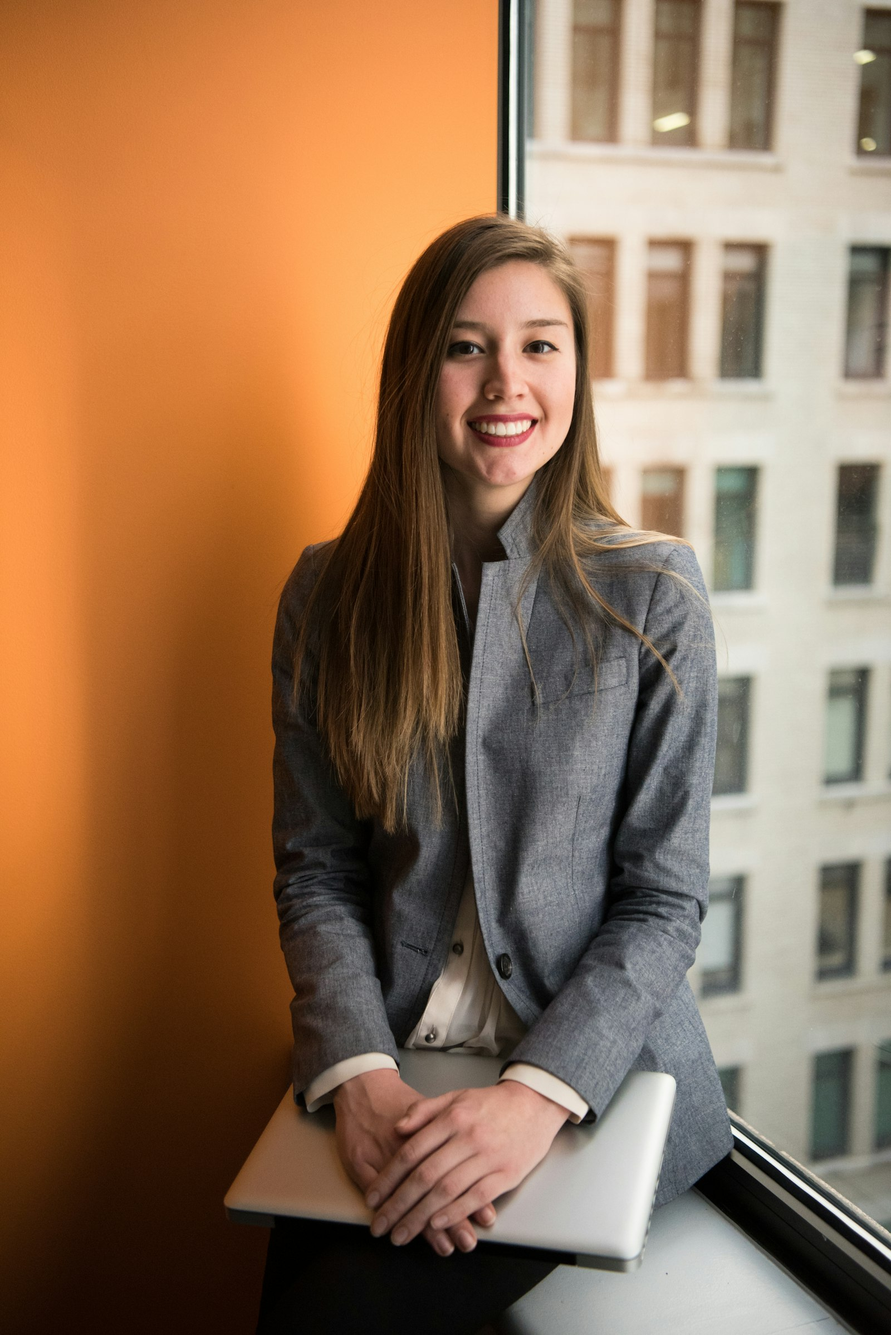
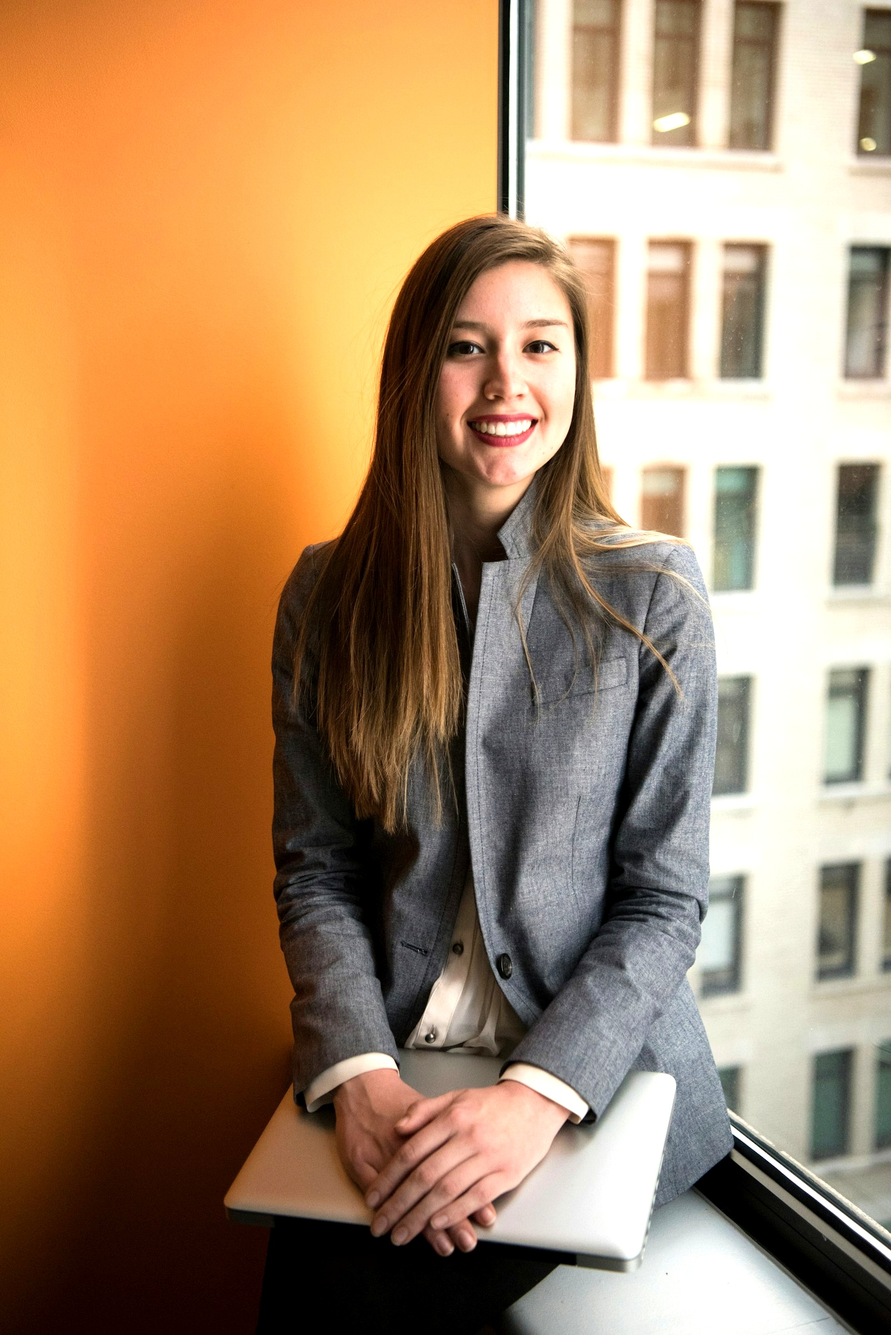
feat(hero): replace hero showcase image with executive presence platform and increase background brightness

diff --git a/components/sections/home5/Banner.js b/components/sections/home5/Banner.js
@@ -10,7 +10,8 @@ export default function Banner() {
                 style={{ 
                     backgroundImage: "url(/assets/images/elite/hero_executive.jpg)", 
                     backgroundPosition: "right 25%", 
-                    backgroundSize: "cover" 
+                    backgroundSize: "cover",
+                    filter: "brightness(1.18) contrast(1.04)"
                 }}
             />
             <div className="container">
@@ -106,8 +107,8 @@ export default function Banner() {
                                 }}
                             >
                                 <img
-                                    src="/assets/images/elite/executive_stature_dashboard.jpg"
-                                    alt="Executive Digital Reputation & Stature Dashboard"
+                                    src="/assets/images/elite/executive_presence_platform.jpg"
+                                    alt="Executive Presence & Digital Authority Platform"
                                     style={{
                                         width: "100%",
                                         height: "auto",

diff --git a/public/assets/css/style.css b/public/assets/css/style.css
@@ -1752,7 +1752,7 @@ button:disabled,
     width: 100%;
     height: 100%;
     content: '';
-    background: linear-gradient(180deg, rgba(0, 0, 0, 0.65) 0%, rgba(13, 13, 20, 0.85) 100%);
+    background: linear-gradient(90deg, rgba(13, 13, 20, 0.78) 0%, rgba(13, 13, 20, 0.48) 50%, rgba(13, 13, 20, 0.16) 100%), linear-gradient(180deg, rgba(13, 13, 20, 0.25) 0%, rgba(13, 13, 20, 0.58) 100%);
     z-index: 1;
 }
 .banner_style_five .bg_layer{
